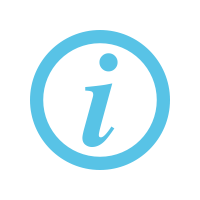
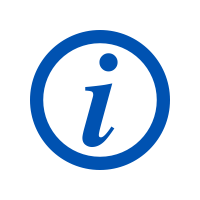
Minor color change

Changed region(s): [[0.15, 0.15, 0.87, 0.87]]

diff --git a/src/main/resources/org/reactome/web/pwp/client/details/tabs/downloads/DownloadsTabDisplay.css b/src/main/resources/org/reactome/web/pwp/client/details/tabs/downloads/DownloadsTabDisplay.css
@@ -1,7 +1,7 @@
 .explanationPanel {
     display: block;
     /*background-color: rgb(217, 237, 247);*/
-    color: rgb(88, 195, 230);
+    color: rgb(0, 82, 177);
     /*border-radius: 5px;*/
     /*border: 1px solid rgb(88, 195, 230);*/
     font-size: small;
